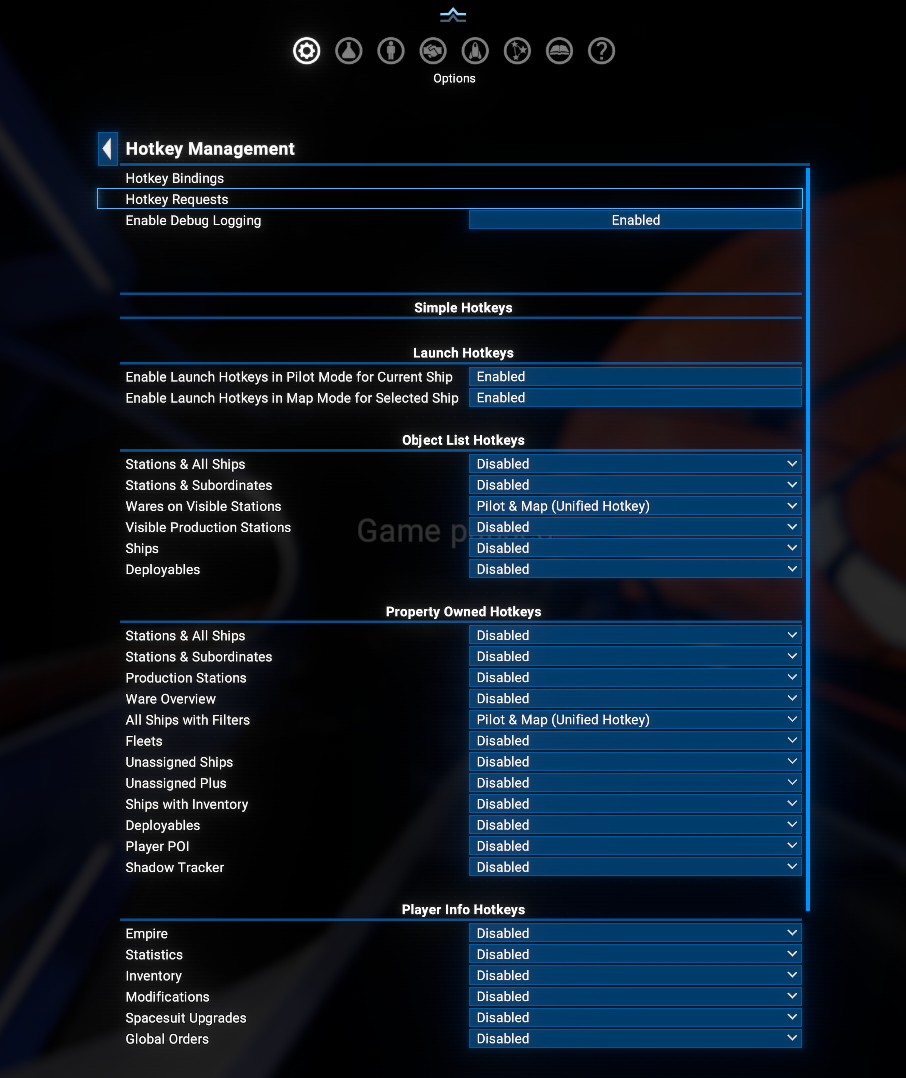
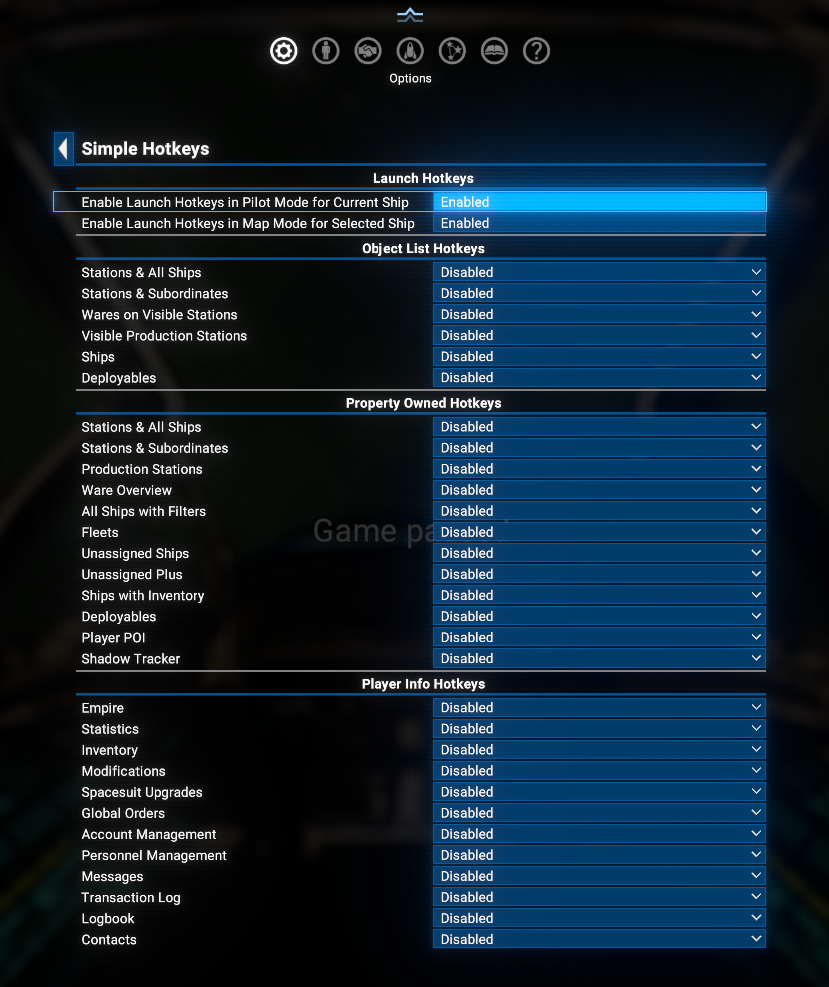
docs(README): add images for hotkey API section and configuration
README.md: +added image for Hotkey API Section
  README.md: +added image for Configurable Hotkeys

diff --git a/README.md b/README.md
@@ -52,6 +52,8 @@ Please note - you can disable any of these actions in the appropriate **Hotkey R
 
 Beyond the always-on actions above, this mod adds a few more **opt-in** hotkey groups, configured from the Options menu rather than appearing automatically - since these can add a lot of individual hotkeys, they all default to disabled so they don't clutter your keybinding list unless you actually want them.
 
+![Hotkey API Section](docs/images/hotkey_api.png)
+
 You'll find them under **Options > Hotkey Management > Simple Hotkeys** - a page of this mod's own, opened from the same **Hotkey Management** page the *Native Hotkey API* itself adds, right below its Hotkey Bindings / Hotkey Requests / Debug Logging rows. No separate menu, no extra dependencies.
 
 ![Configurable Hotkeys](docs/images/configuration.png)
